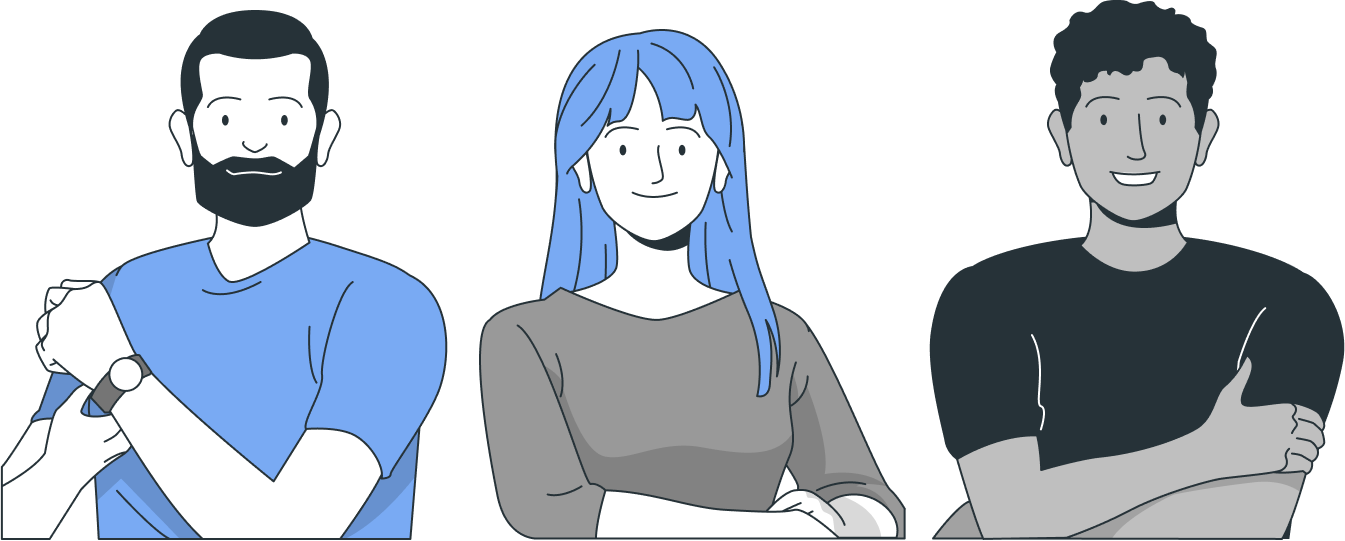
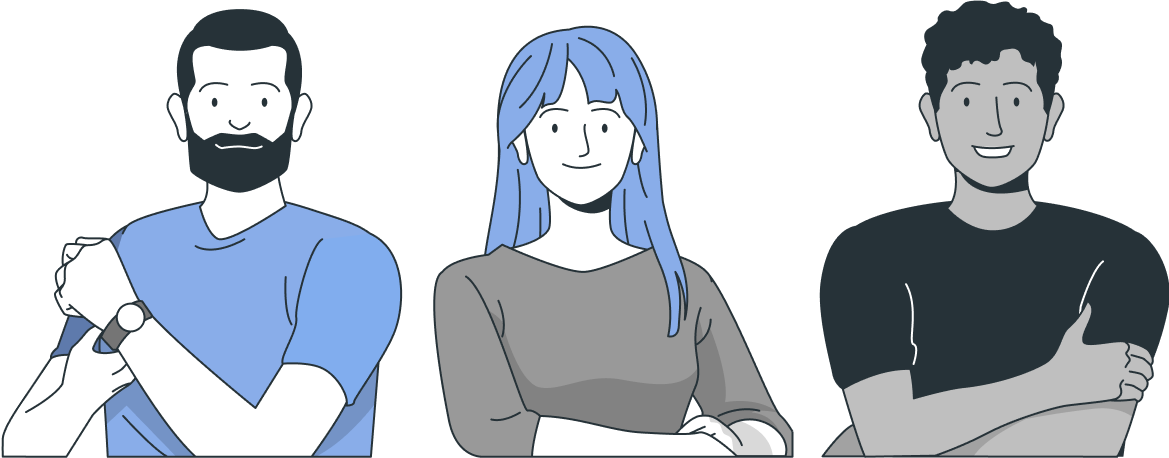
bubble페이지 작성

diff --git a/src/styles/pageStyles/index.styled.ts b/src/styles/pageStyles/index.styled.ts
@@ -535,18 +535,121 @@ export const IntroItemContent = styled.p<IntroItemContentProps>`
     width: 100%;
     margin-top: 1.25rem;
 
-    ${({ show }) => show && css`display: block`}
+    ${({ show }) => show && css`
+      display: block;
+    `}
+  }
+`
+
+export const BubblePageInnerWrapper = styled.div`
+  display: flex;
+  flex-direction: column;
+  align-items: center;
+  justify-content: center;
+  position: relative;
+  width: 1024px;
+  height: 100%;
+  margin: 0 auto;
+  padding-top: 80px;
+  box-sizing: border-box;
+
+  @media ${({ theme }) => theme.media.tablet} {
+    width: 680px;
+  }
+
+  @media ${({ theme }) => theme.media.mobile} {
+    width: 100%;
+    max-width: 375px;
   }
 `
 
 export const ChattingImageWrapper = styled.div`
-  width: 600px;
-  height: auto;
-  margin-top: 60px;
+  position: relative;
+  width: 548px;
+  height: 187px;
+  margin-top: 4.875rem;
+  margin-bottom: 16rem; 
+
+  @media ${({ theme }) => theme.media.tablet} {
+    width: 468px;
+    height: 245px;
+  }
+
+  @media ${({ theme }) => theme.media.mobile} {
+    width: 310px;
+    height: 202px;
+    margin-bottom: 10rem; 
+  }
+`
+
+export const ChattingImage1 = styled.div`
+  width: 216px;
+
+  @media ${({ theme }) => theme.media.mobile} {
+    width: 178px;
+  }
+`
+
+export const ChattingImage2 = styled.div`
+  position: absolute;
+  top: 66px;
+  right: 0;
+  width: 257px;
+
+  @media ${({ theme }) => theme.media.tablet} {
+    top: 91px;
+  }
+
+  @media ${({ theme }) => theme.media.mobile} {
+    top: 80px;
+    width: 212px;
+  }
+`
+
+export const ChattingImage3 = styled.div`
+  position: absolute;
+  bottom: 0;
+  width: 300px;
+
+  @media ${({ theme }) => theme.media.mobile} {
+    width: 247px;
+  }
 `
 
 export const PeopleImageWrapper = styled.div`
+  position: absolute;
+  bottom: 0;
   width: 580px;
   height: auto;
-  margin-top: auto;
+
+  @media ${({ theme }) => theme.media.mobile} {
+    width: 325px;
+  }
+`
+
+export const ProjectPageBackground = styled.div`
+  width: 100%;
+  height: 100%;
+  background-image: url('../../images/background.jpeg');
+`
+
+export const ProjectPageWrapper = styled.div`
+  display: flex;
+  flex-direction: column;
+  align-items: center;
+  justify-content: center;
+  width: 1024px;
+  height: 100%;
+  margin: 0 auto;
+  padding-top: 80px;
+  box-sizing: border-box;
+
+  @media ${({ theme }) => theme.media.tablet} {
+    width: 680px;
+  }
+
+  @media ${({ theme }) => theme.media.mobile} {
+    width: 100%;
+    max-width: 375px;
+  }
 `

diff --git a/src/pages/index.tsx b/src/pages/index.tsx
@@ -169,7 +169,7 @@ function IndexPage() {
         </Styled.CommonPageBackground>
       </Page>
       <Page>
-        <Styled.CommonPageInnerWrapper>
+        <Styled.BubblePageInnerWrapper>
           <Styled.IntroParagraph1>
             {Config.main_fifth.paragraph1}
           </Styled.IntroParagraph1>
@@ -177,12 +177,27 @@ function IndexPage() {
             {Config.main_fifth.paragraph2}
           </Styled.IntroParagraph2>
           <Styled.ChattingImageWrapper>
-            <Image name="chatting.png" />
+            <Styled.ChattingImage1>
+              <Image name="chat1" />
+            </Styled.ChattingImage1>
+            <Styled.ChattingImage2>
+              <Image name="chat2" />
+            </Styled.ChattingImage2>
+            <Styled.ChattingImage3>
+              <Image name="chat3" />
+            </Styled.ChattingImage3>
           </Styled.ChattingImageWrapper>
           <Styled.PeopleImageWrapper>
             <Image name="people.png" />
           </Styled.PeopleImageWrapper>
-        </Styled.CommonPageInnerWrapper>
+        </Styled.BubblePageInnerWrapper>
+      </Page>
+      <Page>
+        <Styled.ProjectPageBackground>
+          <Styled.ProjectPageWrapper>
+
+          </Styled.ProjectPageWrapper>
+        </Styled.ProjectPageBackground>
       </Page>
     </Pagination>
   )

diff --git a/config.js b/config.js
@@ -54,7 +54,7 @@ module.exports = {
     ],
   },
   main_fifth: {
-    paragraph1: '저는 프로젝트를 할 때',
+    paragraph1: '저는 팀 프로젝트를 할 때',
     paragraph2: '이런 팀원이라는 말을 자주 들어요',
   }
 }
